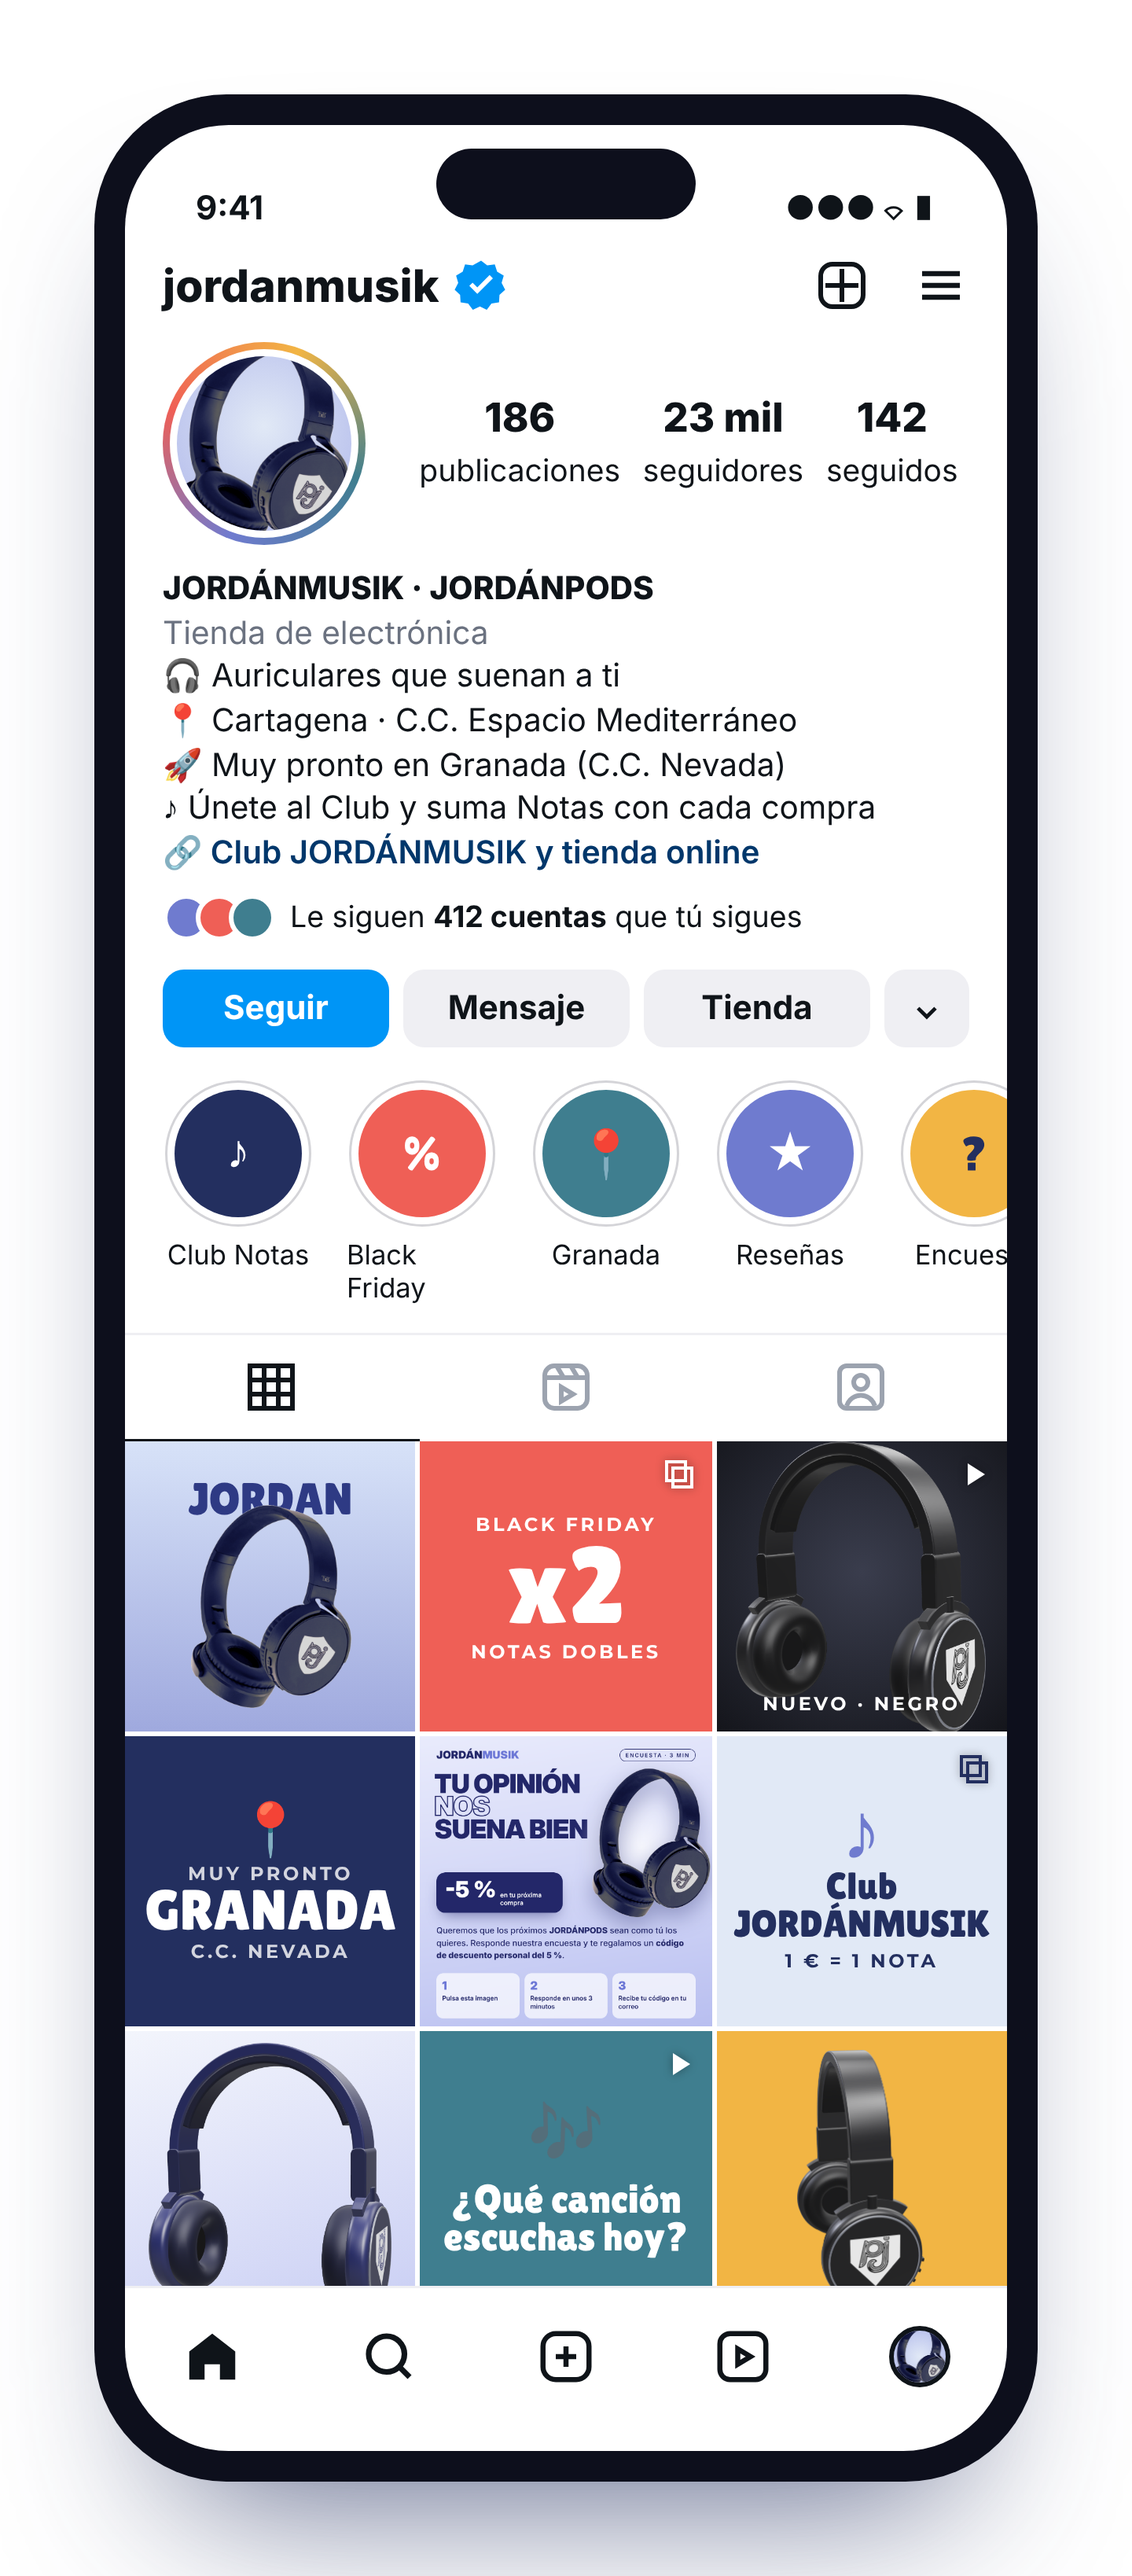
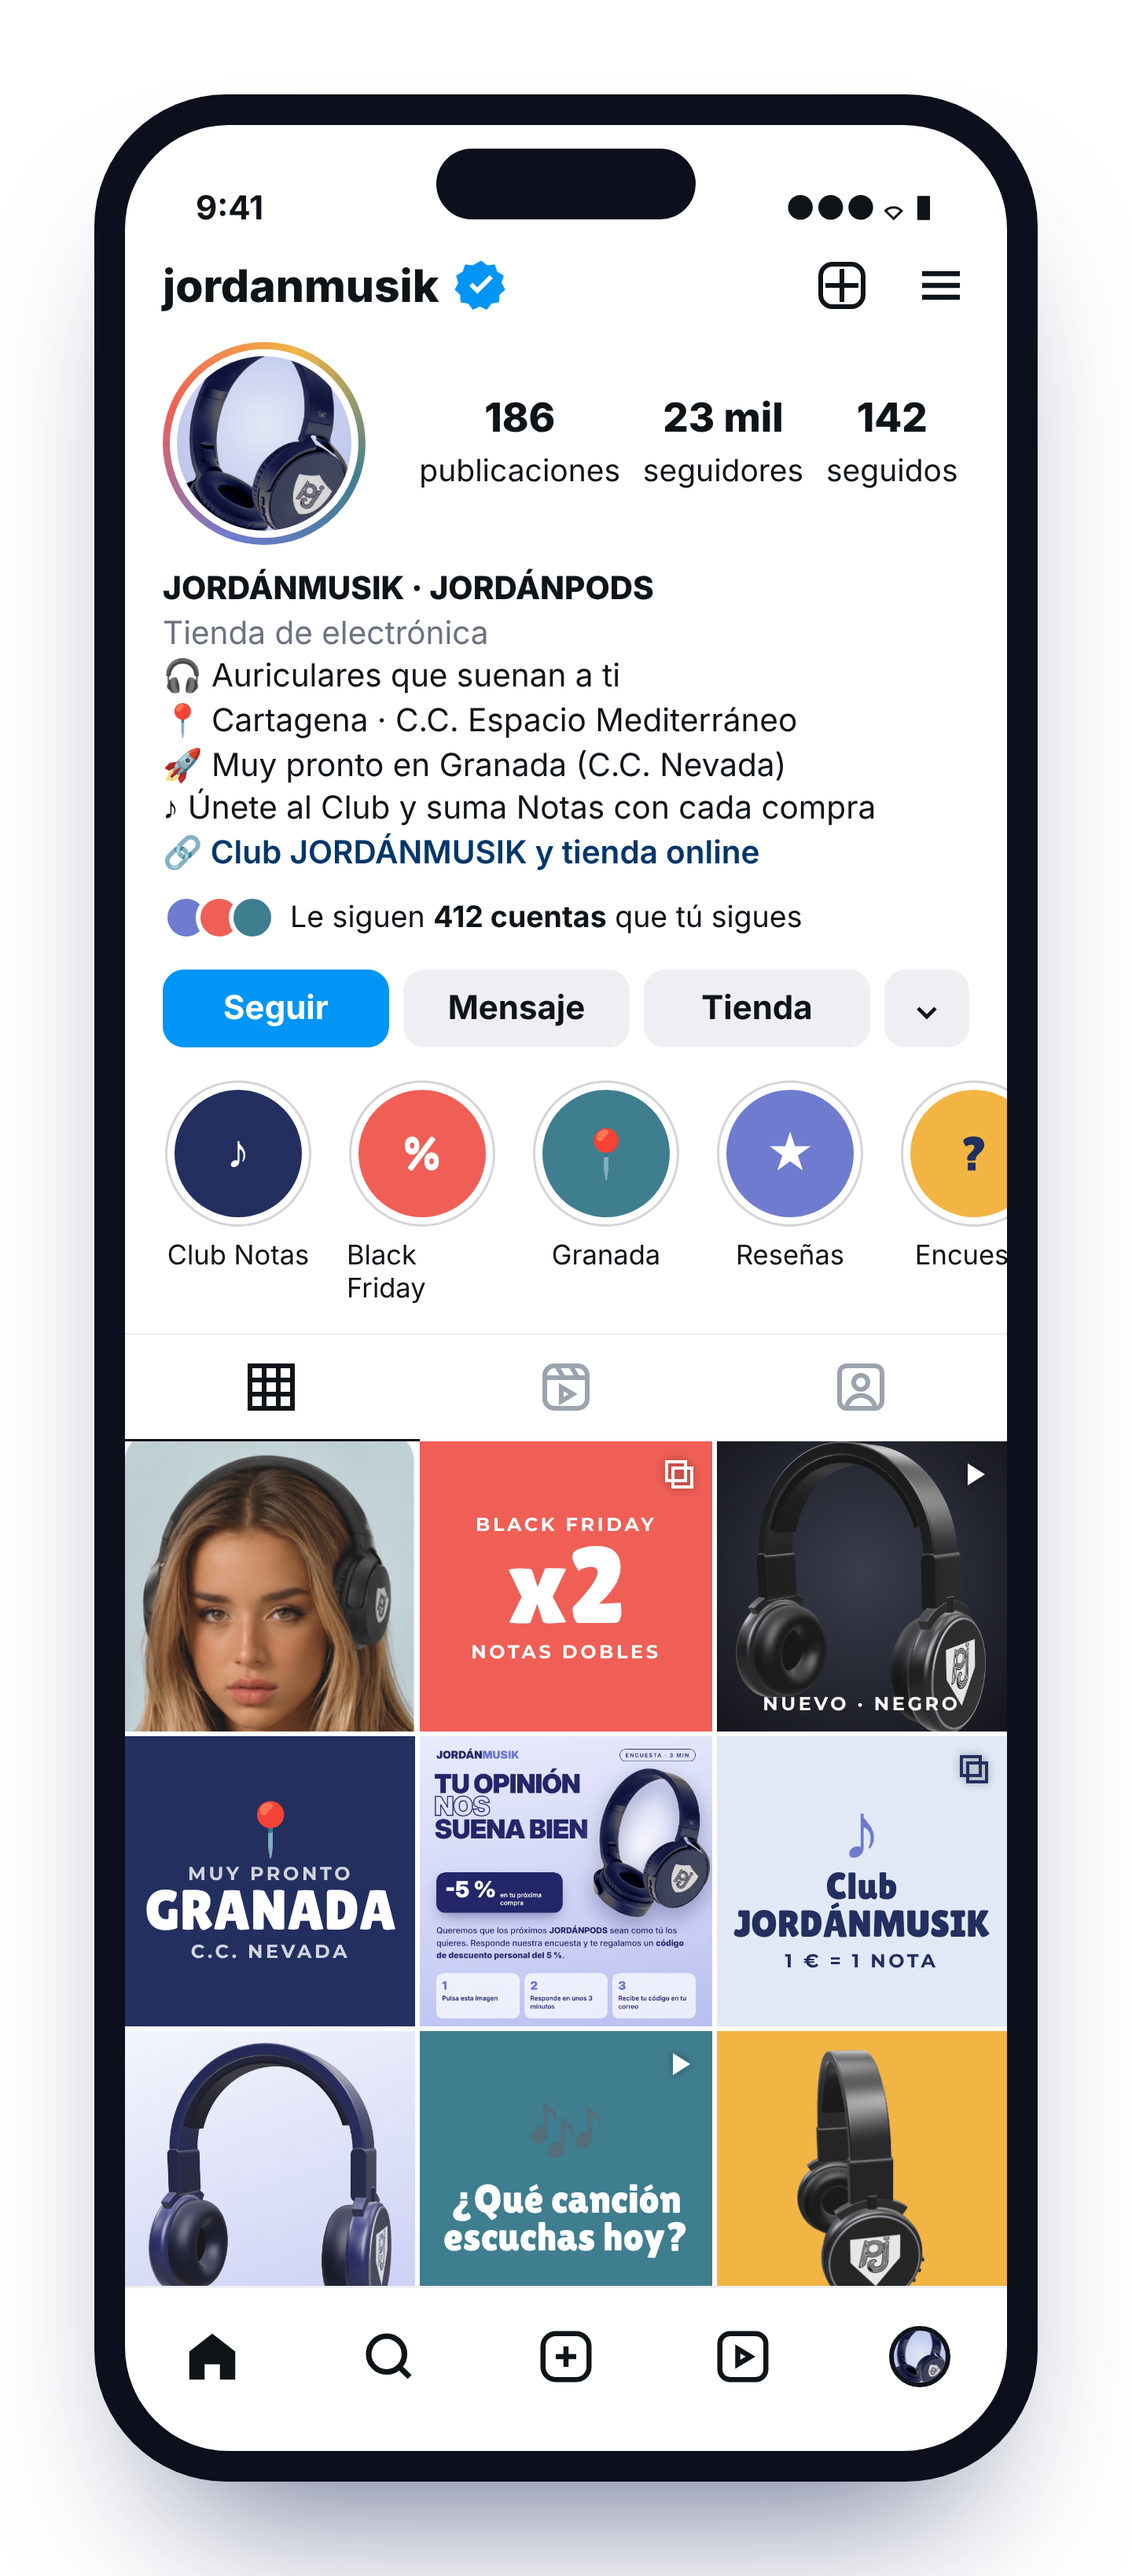
Instagram: nueva foto en la primera publicación
Claude-Session: https://claude.ai/code/session_01QoRa6H288JEqWWG4NNqZ48

Changed region(s): [[0.0938, 0.5604, 0.375, 0.685]]

diff --git a/instagram/diseno_instagram.html b/instagram/diseno_instagram.html
@@ -80,7 +80,7 @@ body{background:transparent;font-family:Inter,"Segoe UI",system-ui,sans-serif;co
  <div class="tabs"><div class="on"><svg viewBox="0 0 24 24" fill="none" stroke="currentColor" stroke-width="2"><rect x="3" y="3" width="18" height="18"/><path d="M9 3v18M15 3v18M3 9h18M3 15h18"/></svg></div><div><svg viewBox="0 0 24 24" fill="none" stroke="currentColor" stroke-width="2"><rect x="3" y="3" width="18" height="18" rx="4"/><path d="M3 8h18M8 3l3 5M14 3l3 5M10 12v6l5-3z"/></svg></div><div><svg viewBox="0 0 24 24" fill="none" stroke="currentColor" stroke-width="2"><rect x="3" y="3" width="18" height="18" rx="3"/><circle cx="12" cy="10" r="3"/><path d="M6 20c1-3 3.5-4.5 6-4.5s5 1.5 6 4.5"/></svg></div></div>
  <div class="grid">
   <!-- 1 -->
-  <div class="post" style="background:linear-gradient(180deg,#D7E2F8,#9FA9DE)"><span class="t" style="font-size:19px;color:#2E3A84;margin-top:4px">JORDAN</span><img src="jordanpods.png" style="height:70%;margin-top:-6px" alt=""></div>
+  <div class="post"><img src="post1.png" style="width:100%;height:100%;object-fit:cover" alt=""></div>
   <!-- 2 -->
   <div class="post" style="background:#EF5F56;color:#fff"><svg class="ic" viewBox="0 0 24 24"><path d="M4 4h12v12H4zM8 8h12v12H8z" fill="none" stroke="#fff" stroke-width="2"/></svg><small>Black Friday</small><span class="t" style="font-size:46px">x2</span><small>Notas dobles</small></div>
   <!-- 3 -->
